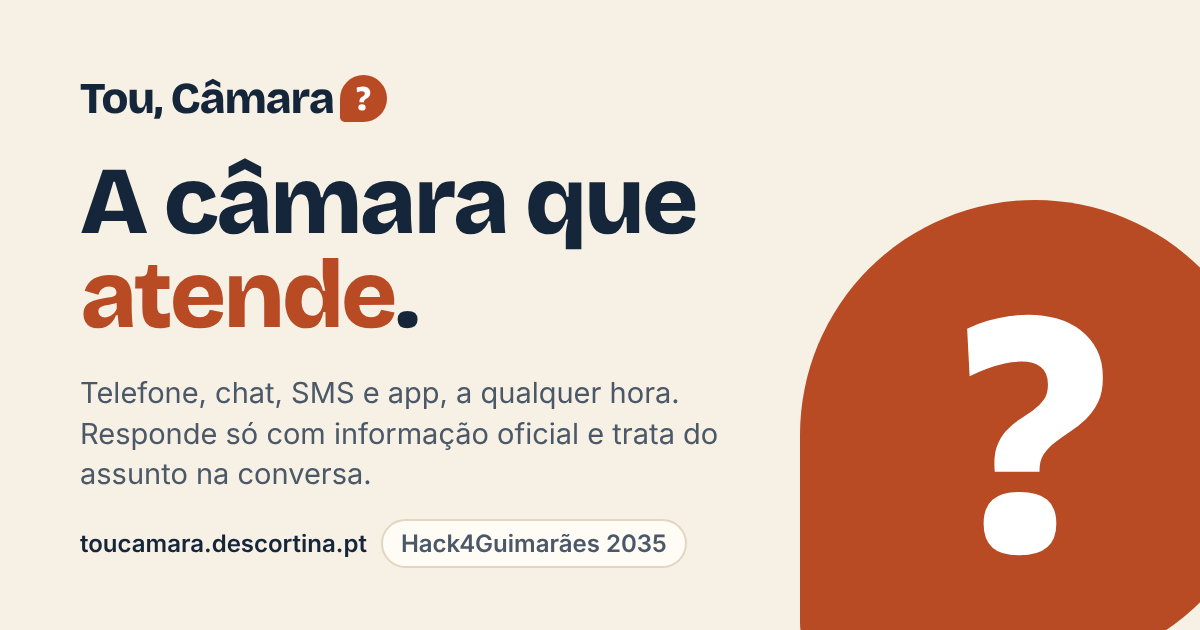
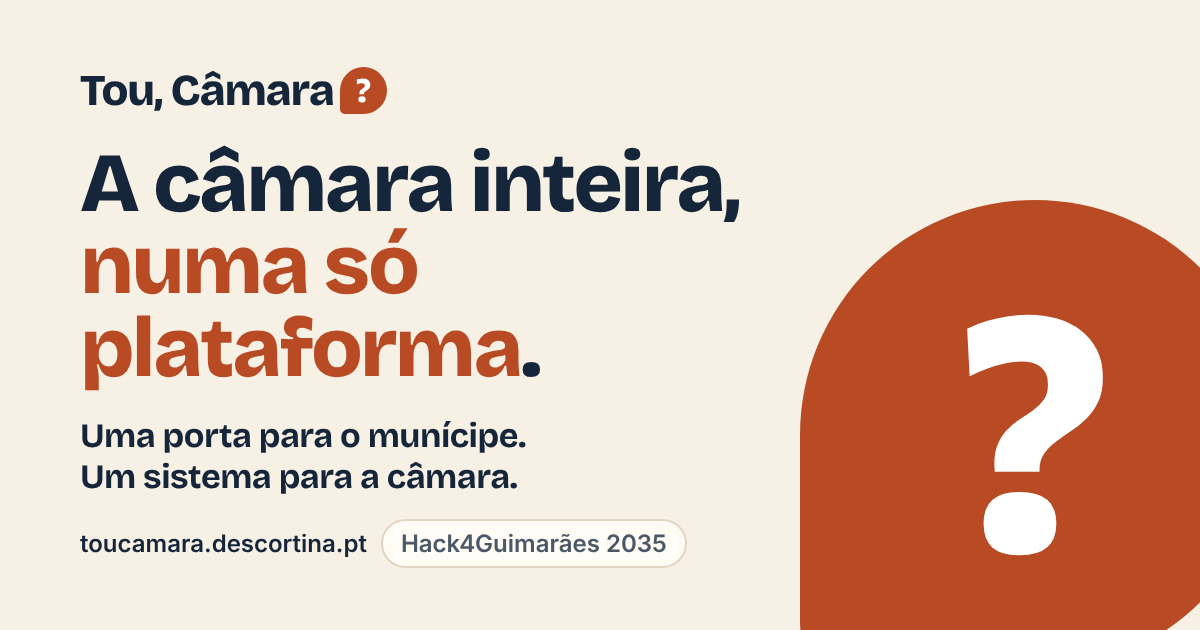
Capa e textos de partilha: a câmara inteira, numa só plataforma
A imagem de partilha (capa), o título e a descrição da página, o manifest
e a abertura do EXPLICADOR deixam o "A câmara que atende".

Claude-Session: https://claude.ai/code/session_012dVPWbfpFHvPEbmeAdcuUQ

Changed region(s): [[0.0617, 0.2413, 0.6167, 0.7841], [0.0617, 0.0905, 0.3392, 0.2111]]

diff --git a/code/web/app/layout.tsx b/code/web/app/layout.tsx
@@ -23,7 +23,7 @@ const jetbrains = JetBrains_Mono({
 });
 
 const DESCRICAO =
-  "O atendimento municipal que nunca está ocupado: telefone, chat, SMS e app, só com informação oficial, e um painel para a câmara.";
+  "A câmara inteira, numa só plataforma: o munícipe trata do assunto numa conversa, a câmara liga primeiro e decide na hora o que é simples.";
 
 export const metadata: Metadata = {
   // Os links absolutos (imagem de partilha) usam o endereço público do site.
@@ -36,7 +36,7 @@ export const metadata: Metadata = {
     type: "website",
     locale: "pt_PT",
     siteName: "Tou, Câmara?",
-    title: "Tou, Câmara? · A câmara que atende",
+    title: "Tou, Câmara? · A câmara inteira, numa só plataforma",
     description: DESCRICAO,
   },
   twitter: { card: "summary_large_image" },

diff --git a/code/web/app/page.tsx b/code/web/app/page.tsx
@@ -2,9 +2,9 @@ import type { Metadata } from "next";
 import { PaginaApresentacao } from "@/components/apresentacao/pagina";
 
 export const metadata: Metadata = {
-  title: "Tou, Câmara? · A câmara que atende",
+  title: "Tou, Câmara? · A câmara inteira, numa só plataforma",
   description:
-    "Um assistente que atende os munícipes de Guimarães por telefone, chat, SMS e app, responde só com informação oficial e trata do assunto durante a conversa.",
+    "Uma porta para o munícipe, um sistema para a câmara: o munícipe trata do assunto numa conversa, a câmara liga primeiro e decide na hora o que é simples.",
 };
 
 /** A raiz do site: a apresentação do projeto, com os links para experimentar. O portal com o chat está em /portal. */

diff --git a/code/web/app/manifest.ts b/code/web/app/manifest.ts
@@ -5,7 +5,7 @@ export default function manifest(): MetadataRoute.Manifest {
   return {
     name: "Tou, Câmara?",
     short_name: "Tou, Câmara?",
-    description: "O atendimento municipal que nunca está ocupado.",
+    description: "A câmara inteira, numa só plataforma.",
     lang: "pt-PT",
     start_url: "/",
     display: "standalone",
